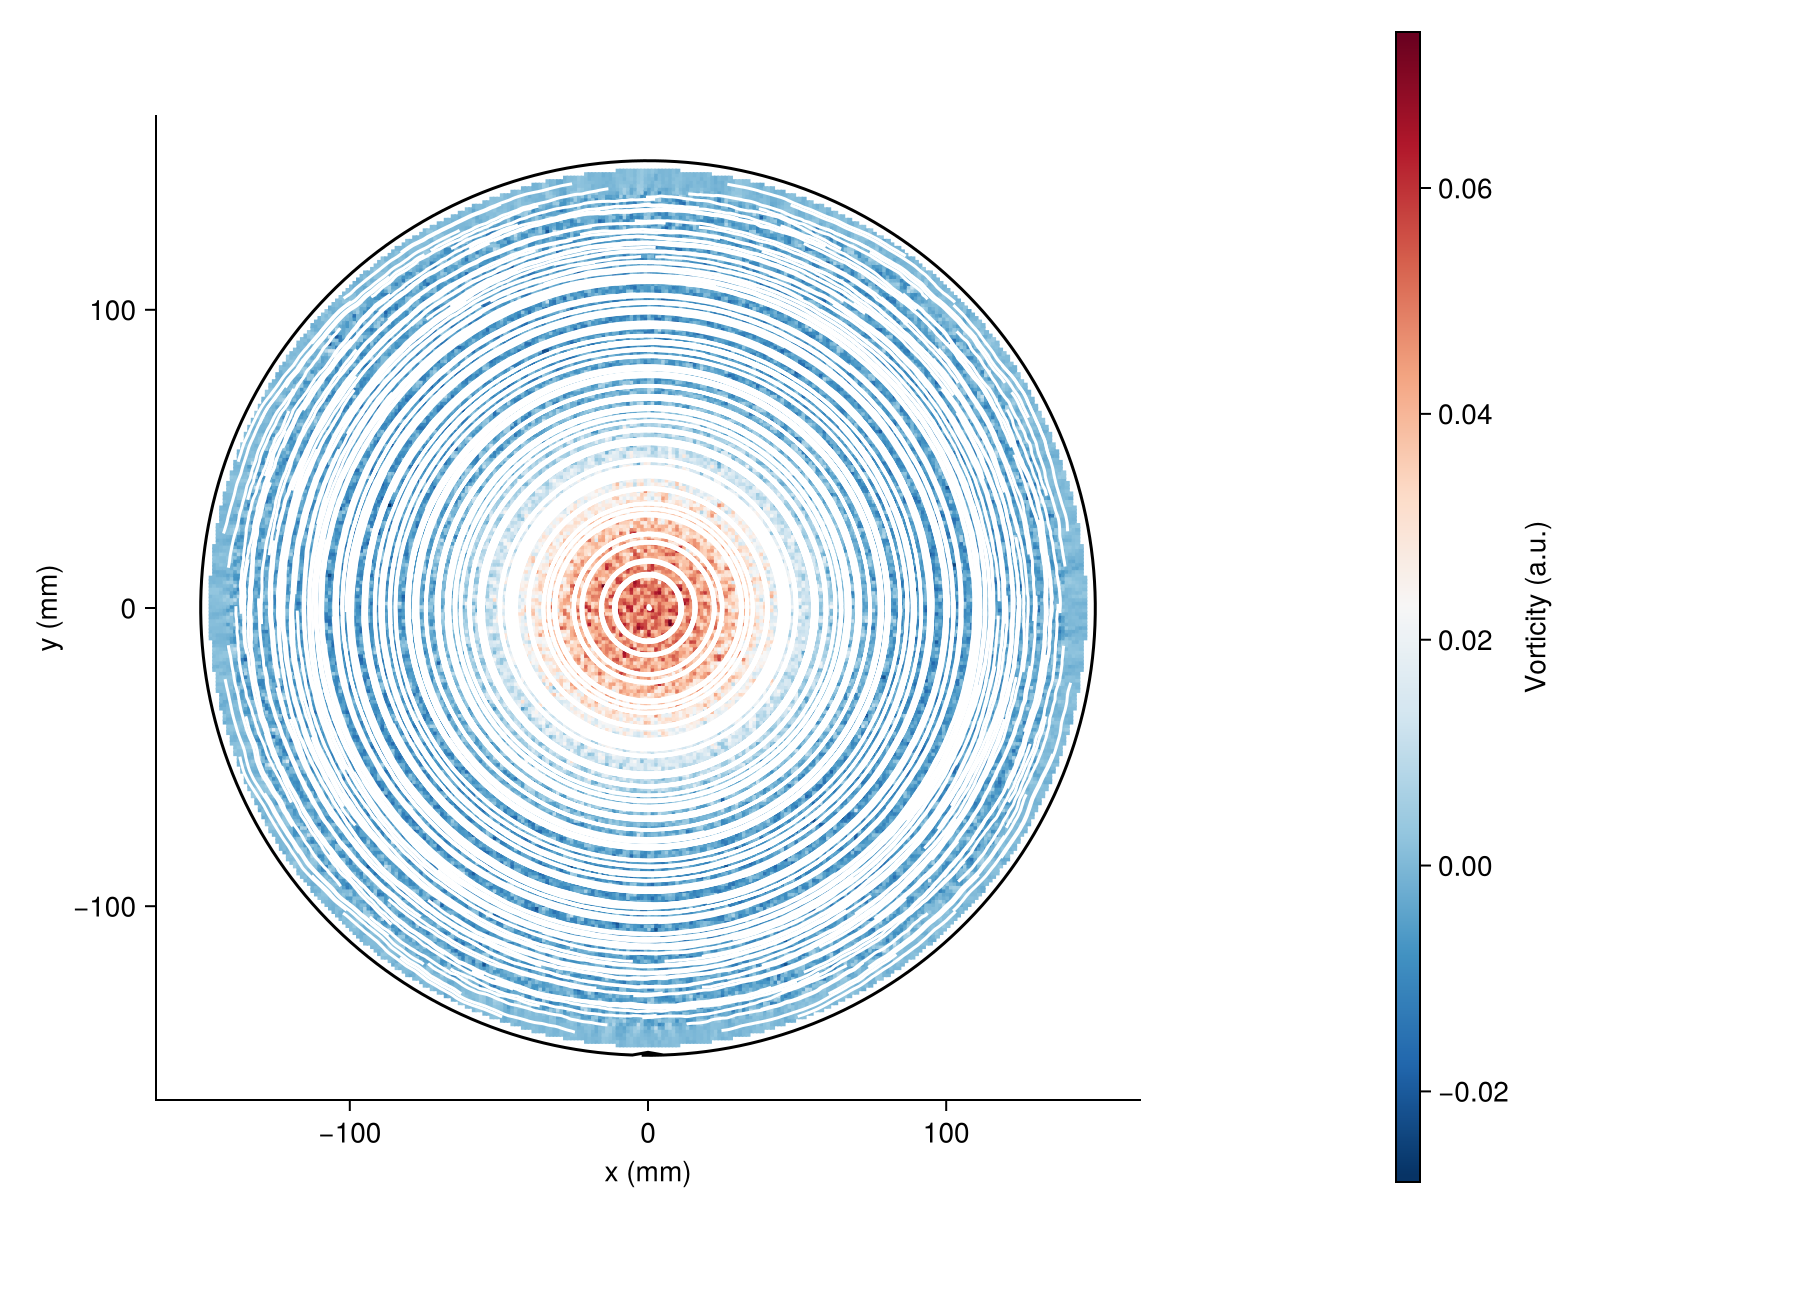
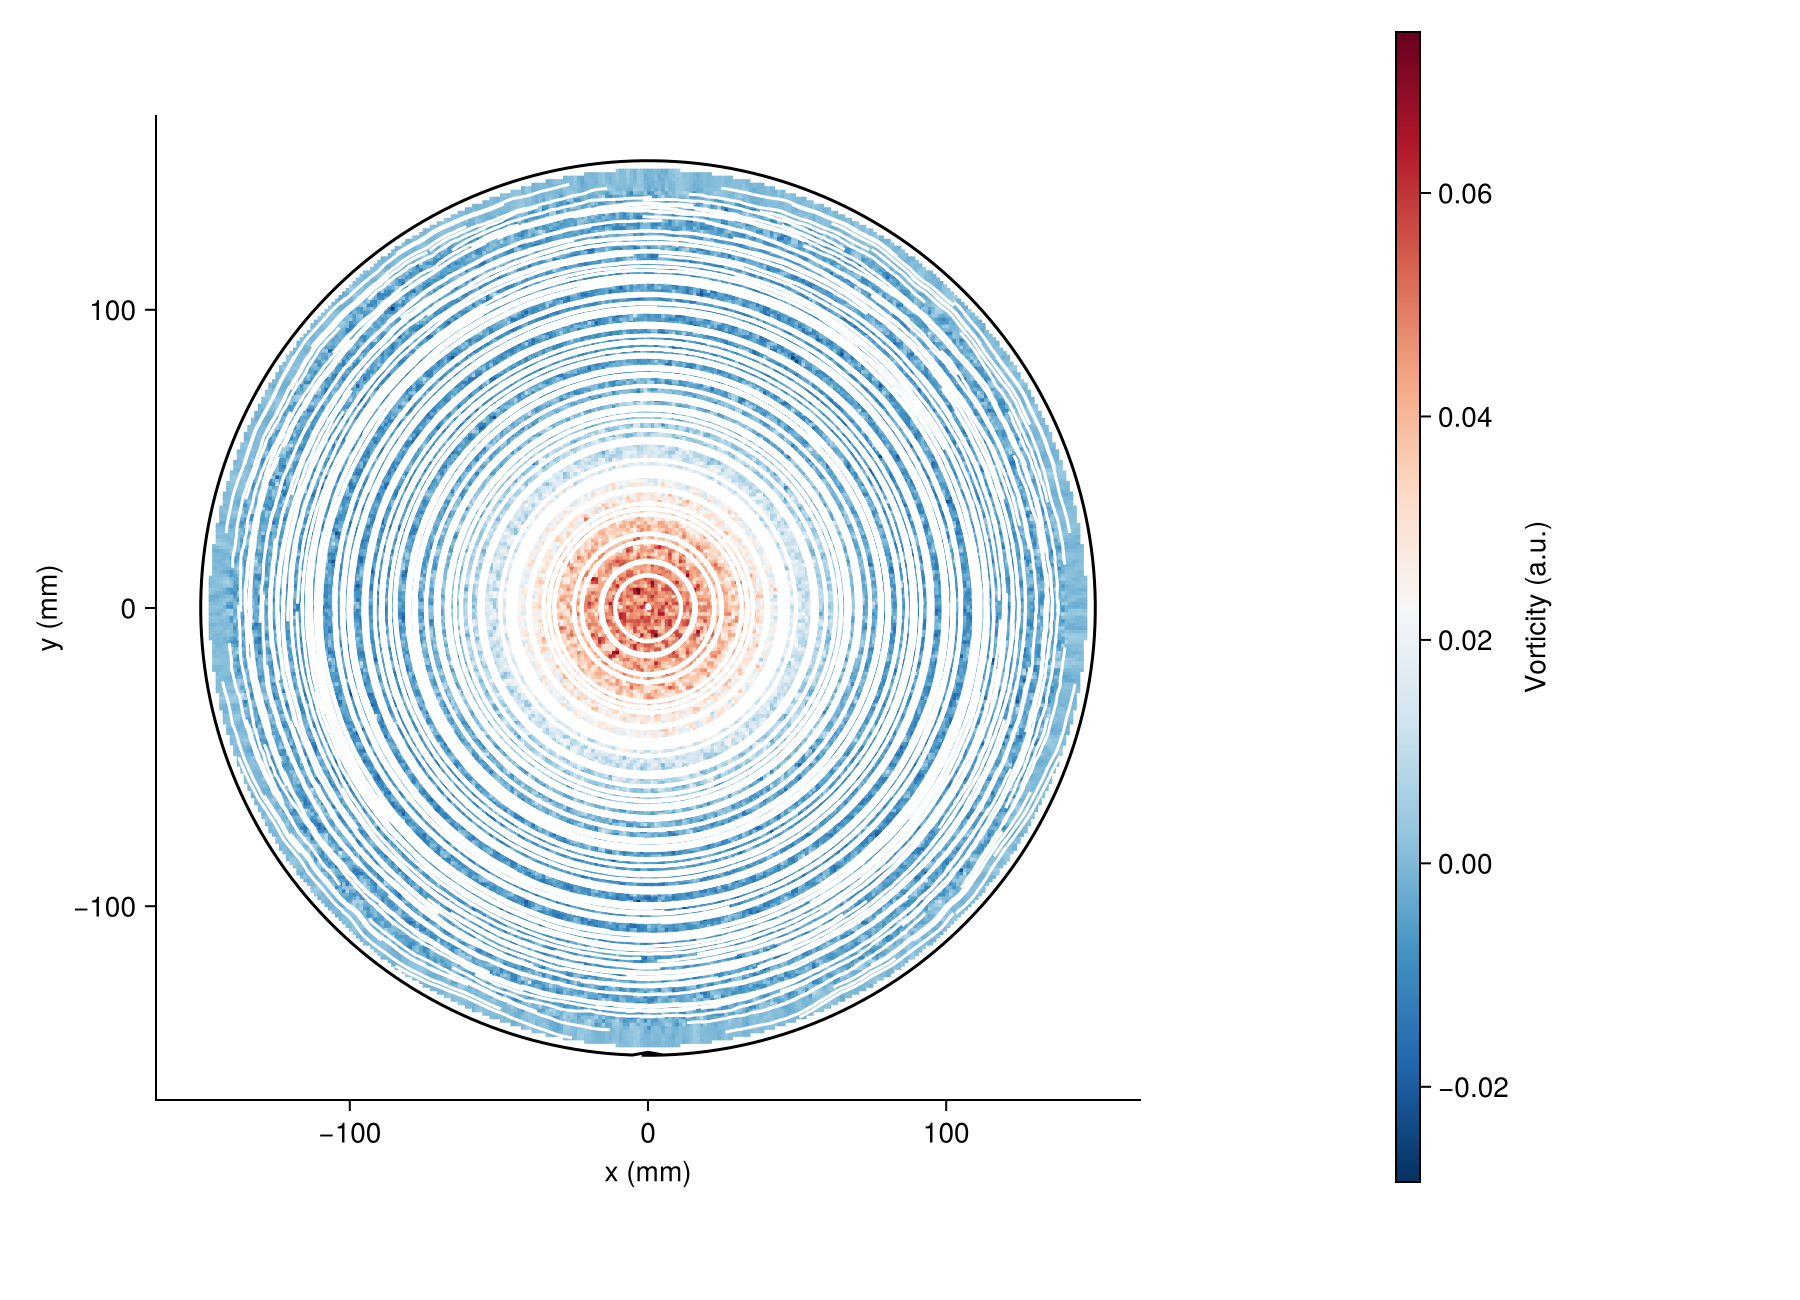
Cut allocations in IDW recipes; batch-render arrows
Replace the allocating knn(tree, [x,y], k) + broadcast IDW pattern with
knn! into reused buffers plus a scalar accumulation loop across contour,
divergence, vorticity, streamlines, and the heatmap image path. Memory
drops 4-16x (streamlines 287->18 MiB, divergence 62->16 MiB) with no
change to output (summation order preserved).

waferarrows now renders as a single batched lines! call (shaft + V
arrowhead) and defaults to max_arrows=4000 instead of 20000, replacing
arrows2d!'s per-arrow mesh: 201 ms / 159 MiB -> 4.4 ms / 2.7 MiB.

Note: streamlines/divergence/vorticity/contour wall-time is bound by the
KDTree knn search itself, so their time changes little despite the large
memory reduction.

diff --git a/docs/src/performance.md b/docs/src/performance.md
@@ -132,8 +132,9 @@ julia --project=benchmarks benchmarks/render_bench.jl   # requires GLMakie + dis
 | Pre-allocated `Float32` colour arrays | No per-point allocation in Julia |
 | `scatter!` with `:rect` marker for heatmap | Faster than `heatmap!` on scattered points |
 | `image!` for gridded heatmap | Single texture upload |
-| Arrow subsampling to ≤ 20K | Arrow plot readability + speed |
+| Arrows as one batched `lines!` (shaft + V head), subsampled to `max_arrows` (default 4 000) | One draw call instead of a tessellated mesh per arrow — ~10× less memory |
 | Streamlines as single `lines!` with `NaN` separators | One draw call for all lines |
+| IDW interpolation with `knn!` + reused buffers | No per-point allocations in contour / divergence / vorticity / streamlines |
 
 ## Tips for large datasets
 

diff --git a/docs/src/gallery.md b/docs/src/gallery.md
@@ -82,7 +82,7 @@ add_colorbar!(side, p; label="Overlay (a.u.)")
 
 ## Arrows
 
-Arrow plot of a vector field. Subsampled to `max_arrows` (default 20 000) for legibility. Scale arrows with `lengthscale`.
+Arrow plot of a vector field. Subsampled to `max_arrows` (default 4 000) for legibility, and drawn as a single batched `lines!` call (shaft plus a V arrowhead) for low memory use. Scale arrows with `lengthscale`; tune the head with `head_frac` and `head_angle`.
 
 ```julia
 fig, ax, side = wafer_figure()